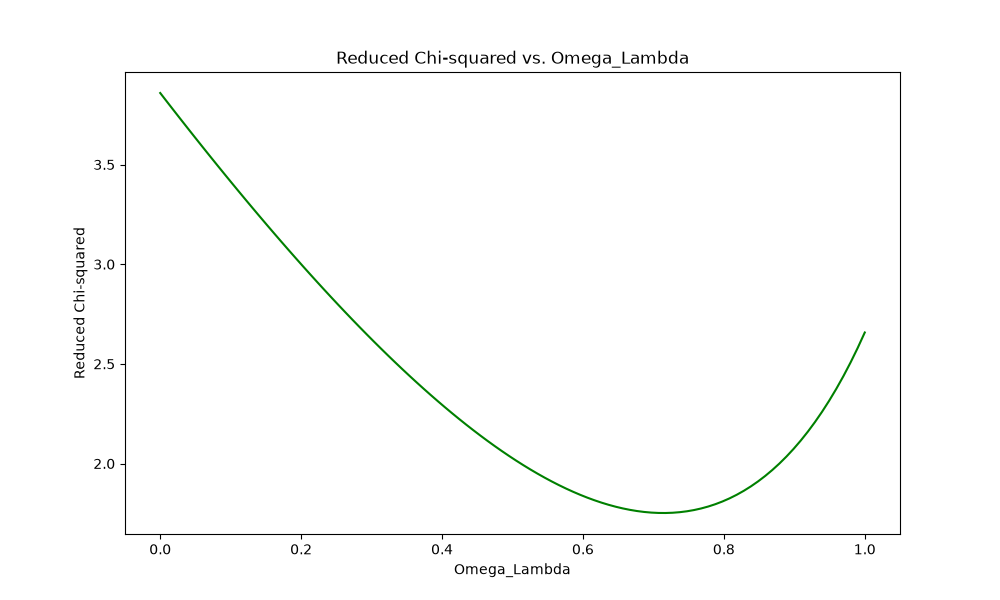
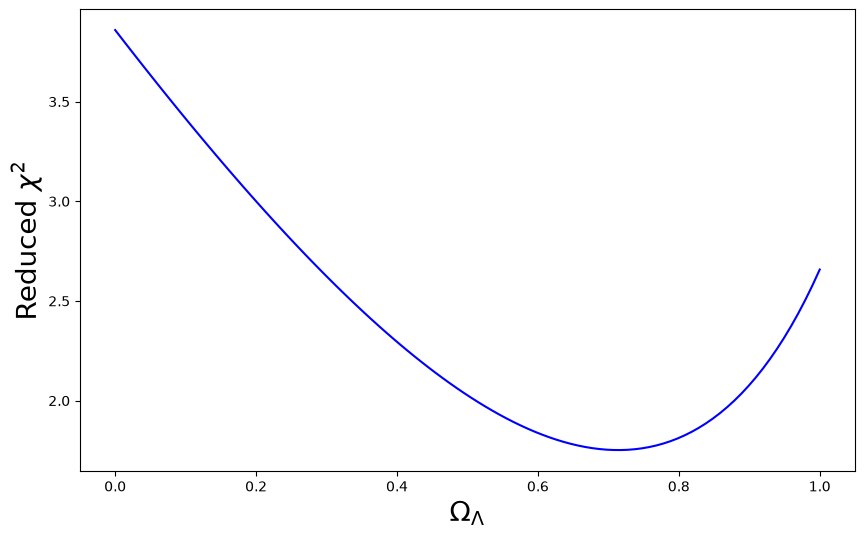
Improve plots slightly
Plots may change while poster is being written, though everything else is done I think

diff --git a/milestone_project.py b/milestone_project.py
@@ -16,6 +16,8 @@ KM_PER_MPC = 3.085677581e19  # km/Mpc
 H0_HZ = H0 / KM_PER_MPC  # Hz
 SMALL_Z_THRESHOLD = 0.1  # threshold for small redshift approximation
 F_LAMBDA_0 = 6.61e-9  # erg/s/cm^2/Å
+LABEL_FONT_SIZE = 20  # font size for labels
+LEGEND_FONT_SIZE = 16  # font size for legends
 
 
 def read_data(file_name) -> tuple[np.ndarray, np.ndarray, np.ndarray]:
@@ -129,11 +131,11 @@ def plot_model(redshifts: np.ndarray, m_effectives: np.ndarray, errs: np.ndarray
                 color='b',
                 label = label + f" = {result}")
 
-    plt.legend(loc="best")
-    plt.ylabel("Effective Magnitude")
-    plt.xlabel("Redshift Factor")
-    plt.title("Effective Magnitude vs. Redshift")
-    plt.savefig(file_name)
+    plt.legend(loc="best", fontsize=LEGEND_FONT_SIZE)
+    plt.ylabel(rf"Effective Magnitude $m^{{\mathrm{{eff}}}}$", fontsize=LABEL_FONT_SIZE)
+    plt.xlabel("Redshift Factor $z$", fontsize=LABEL_FONT_SIZE)
+    #plt.title("Effective Magnitude vs. Redshift", fontsize=FONT_SIZE)
+    plt.savefig(file_name, bbox_inches='tight')
     plt.show()
 
 def main()-> None:
@@ -184,14 +186,14 @@ def main()-> None:
         reduced_chi_squared_samples.append(reduced_chi_squared)
 
     plt.figure(figsize=(10, 6))
-    plt.plot(omega_Lambda_samples, reduced_chi_squared_samples, color='g')
-    plt.xlabel("Omega_Lambda")
-    plt.ylabel("Reduced Chi-squared")
-    plt.title("Reduced Chi-squared vs. Omega_Lambda")
-    plt.savefig("reduced_chi_squared_vs_omega_lambda.png")
+    plt.plot(omega_Lambda_samples, reduced_chi_squared_samples, color='b')
+    plt.xlabel(rf"$\Omega_{{\mathrm{{\Lambda}}}}$", fontsize=LABEL_FONT_SIZE)
+    plt.ylabel(rf"Reduced $\chi^2$", fontsize=LABEL_FONT_SIZE)
+    #plt.title("Reduced Chi-squared vs. Omega_Lambda")
+    plt.savefig("reduced_chi_squared_vs_omega_lambda.png", bbox_inches='tight')
     plt.show()
-    
-    print(f"Minimum Reduced Chi-squared: {min(reduced_chi_squared_samples)} at Omega_Lambda = {omega_Lambda_samples[np.argmin(reduced_chi_squared_samples)]}")
+
+    print(rf"Minimum Reduced chi^2: {min(reduced_chi_squared_samples)} at Omega_Lambda = {omega_Lambda_samples[np.argmin(reduced_chi_squared_samples)]}")
 
 if __name__ == "__main__":
     main()
